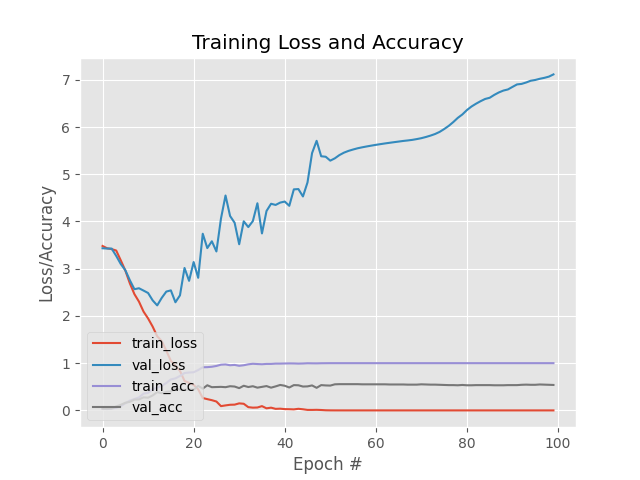
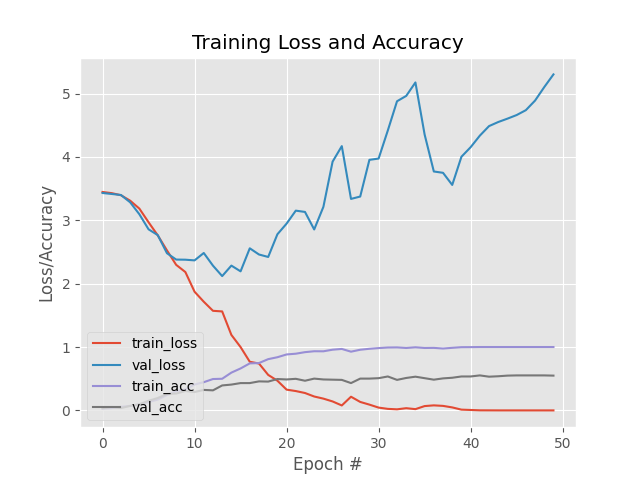
tried to improve model

diff --git a/nn.py b/nn.py
@@ -1,0 +1,63 @@
+from keras.models import Sequential
+from keras.layers import Dense, Conv2D, MaxPool2D , Flatten, AveragePooling2D, Dropout
+
+class MyModel:
+    
+    def build(size, num_classes):
+
+        model = Sequential()
+
+        model.add(Conv2D(32, kernel_size=(5,5), strides=(1,1), padding='same', activation='relu', input_shape=(size, size, 3)))
+        model.add(AveragePooling2D(pool_size=(2,2), strides=(2, 2)))
+        model.add(Dropout(0.25))
+        model.add(Conv2D(64, kernel_size=(5,5), strides=(1,1), padding='same', activation='relu'))
+        model.add(Conv2D(64, kernel_size=(3,3), strides=(1,1), padding='same', activation='relu'))
+        model.add(AveragePooling2D(pool_size=(2,2), strides=(2, 2)))
+        model.add(Dropout(0.25))
+        model.add(Conv2D(128, kernel_size=(5,5), strides=(1,1), padding='same', activation='relu'))
+        model.add(Conv2D(128, kernel_size=(5,5), strides=(1,1), padding='same', activation='relu'))
+        model.add(AveragePooling2D(pool_size=(2,2), strides=(2, 2)))
+        model.add(Dropout(0.25))
+        model.add(Conv2D(256, kernel_size=(3,3), strides=(1,1), padding='same', activation='relu'))
+        model.add(AveragePooling2D(pool_size=(2,2), strides=(2, 2)))
+        model.add(Dropout(0.25))
+
+        model.add(Flatten())
+
+        model.add(Dense(500, activation='relu'))
+        model.add(Dropout(0.4))
+        model.add(Dense(250, activation='relu'))
+        model.add(Dropout(0.3))
+
+        model.add(Dense(num_classes, activation='softmax'))
+
+        return model
+    
+class VGG16:
+    def build(size, num_classes):
+        model = Sequential()
+        model.add(Conv2D(input_shape=(size,size,3),filters=32,kernel_size=(3,3),padding="same", activation="relu"))
+        model.add(Conv2D(filters=64,kernel_size=(3,3),padding="same", activation="relu"))
+        model.add(MaxPool2D(pool_size=(2,2),strides=(2,2)))
+        model.add(Conv2D(filters=128, kernel_size=(3,3), padding="same", activation="relu"))
+        model.add(Conv2D(filters=128, kernel_size=(3,3), padding="same", activation="relu"))
+        model.add(MaxPool2D(pool_size=(2,2),strides=(2,2)))
+        model.add(Conv2D(filters=256, kernel_size=(3,3), padding="same", activation="relu"))
+        model.add(Conv2D(filters=256, kernel_size=(3,3), padding="same", activation="relu"))
+        model.add(Conv2D(filters=256, kernel_size=(3,3), padding="same", activation="relu"))
+        model.add(MaxPool2D(pool_size=(2,2),strides=(2,2)))
+        model.add(Conv2D(filters=512, kernel_size=(3,3), padding="same", activation="relu"))
+        model.add(Conv2D(filters=512, kernel_size=(3,3), padding="same", activation="relu"))
+        model.add(Conv2D(filters=512, kernel_size=(3,3), padding="same", activation="relu"))
+        model.add(MaxPool2D(pool_size=(2,2),strides=(2,2)))
+        model.add(Conv2D(filters=512, kernel_size=(3,3), padding="same", activation="relu"))
+        model.add(Conv2D(filters=512, kernel_size=(3,3), padding="same", activation="relu"))
+        model.add(Conv2D(filters=512, kernel_size=(3,3), padding="same", activation="relu"))
+        model.add(MaxPool2D(pool_size=(2,2),strides=(2,2)))
+        
+        model.add(Flatten())
+        model.add(Dense(units=4096,activation="relu"))
+        model.add(Dense(units=4096,activation="relu"))
+        model.add(Dense(units=num_classes, activation="softmax"))
+        
+        return model

diff --git a/app.py b/app.py
@@ -5,6 +5,10 @@ from sklearn.model_selection import train_test_split
 import tensorflow as tf
 import cv2
 import matplotlib.pyplot as plt
+import nn
+
+# Disable TF warning messages
+os.environ['TF_CPP_MIN_LOG_LEVEL'] = '3'
 
 imagePaths = list(paths.list_images("Dataset\Faces"))
 images = []
@@ -13,8 +17,12 @@ labels_text = []
 label_dict = {}
 
 epochs = 50
-activation_func = 'relu'
 loss = "categorical_crossentropy"
+
+size = 160
+
+doResize = False
+re_size = 80
 
 label_num=0
 
@@ -24,10 +32,14 @@ for imagePath in imagePaths:
     
     image = cv2.imread(imagePath)
     
+    if doResize:
+        size = re_size
+        image = cv2.resize(image, (size , size))
+    
     images.append(image)
     labels_text.append(img_class)
 
-no_classes = len(np.unique(labels_text))
+num_classes = len(np.unique(labels_text))
 
 data = np.array(images, dtype="float") / 255.0
 
@@ -40,35 +52,11 @@ for label in labels_text:
     
 labels = np.array(labels)
 
-labels = tf.keras.utils.to_categorical(labels, num_classes=no_classes)
+labels = tf.keras.utils.to_categorical(labels, num_classes=num_classes)
 
 Xtrain, Xtest, Ytrain, Ytest = train_test_split(data, labels, test_size=0.2, stratify=labels)
 
-model = tf.keras.models.Sequential()
-
-model.add(tf.keras.layers.Conv2D(8, kernel_size=(5,5), strides=(1,1), padding='same', activation=activation_func, input_shape=(160,160,3)))
-model.add(tf.keras.layers.AveragePooling2D(pool_size=(2,2), strides=(2, 2)))
-
-model.add(tf.keras.layers.Conv2D(16, kernel_size=(3,3), strides=(1,1), padding='same', activation=activation_func))
-model.add(tf.keras.layers.AveragePooling2D(pool_size=(2,2), strides=(2, 2)))
-
-model.add(tf.keras.layers.Conv2D(32, kernel_size=(3,3), strides=(1,1), padding='same', activation=activation_func))
-model.add(tf.keras.layers.AveragePooling2D(pool_size=(2,2), strides=(2, 2)))
-
-model.add(tf.keras.layers.Conv2D(64, kernel_size=(3,3), strides=(1,1), padding='same', activation=activation_func))
-model.add(tf.keras.layers.AveragePooling2D(pool_size=(2,2), strides=(2, 2)))
-
-model.add(tf.keras.layers.Conv2D(128, kernel_size=(3,3), strides=(1,1), padding='same', activation=activation_func))
-
-model.add(tf.keras.layers.Flatten())
-
-model.add(tf.keras.layers.Dense(2304, activation=activation_func))
-model.add(tf.keras.layers.Dense(1152, activation=activation_func))
-model.add(tf.keras.layers.Dense(576, activation=activation_func))
-model.add(tf.keras.layers.Dense(144, activation=activation_func))
-
-model.add(tf.keras.layers.Dense(no_classes, activation='softmax'))
-
+model = nn.MyModel.build(size, num_classes)
 
 model.compile(loss=loss, metrics=['accuracy'], optimizer='adam')
 
@@ -86,4 +74,4 @@ plt.title("Training Loss and Accuracy")
 plt.xlabel("Epoch #")
 plt.ylabel("Loss/Accuracy")
 plt.legend(loc="lower left")
-plt.savefig("model.png")
+plt.savefig("model7.png")
